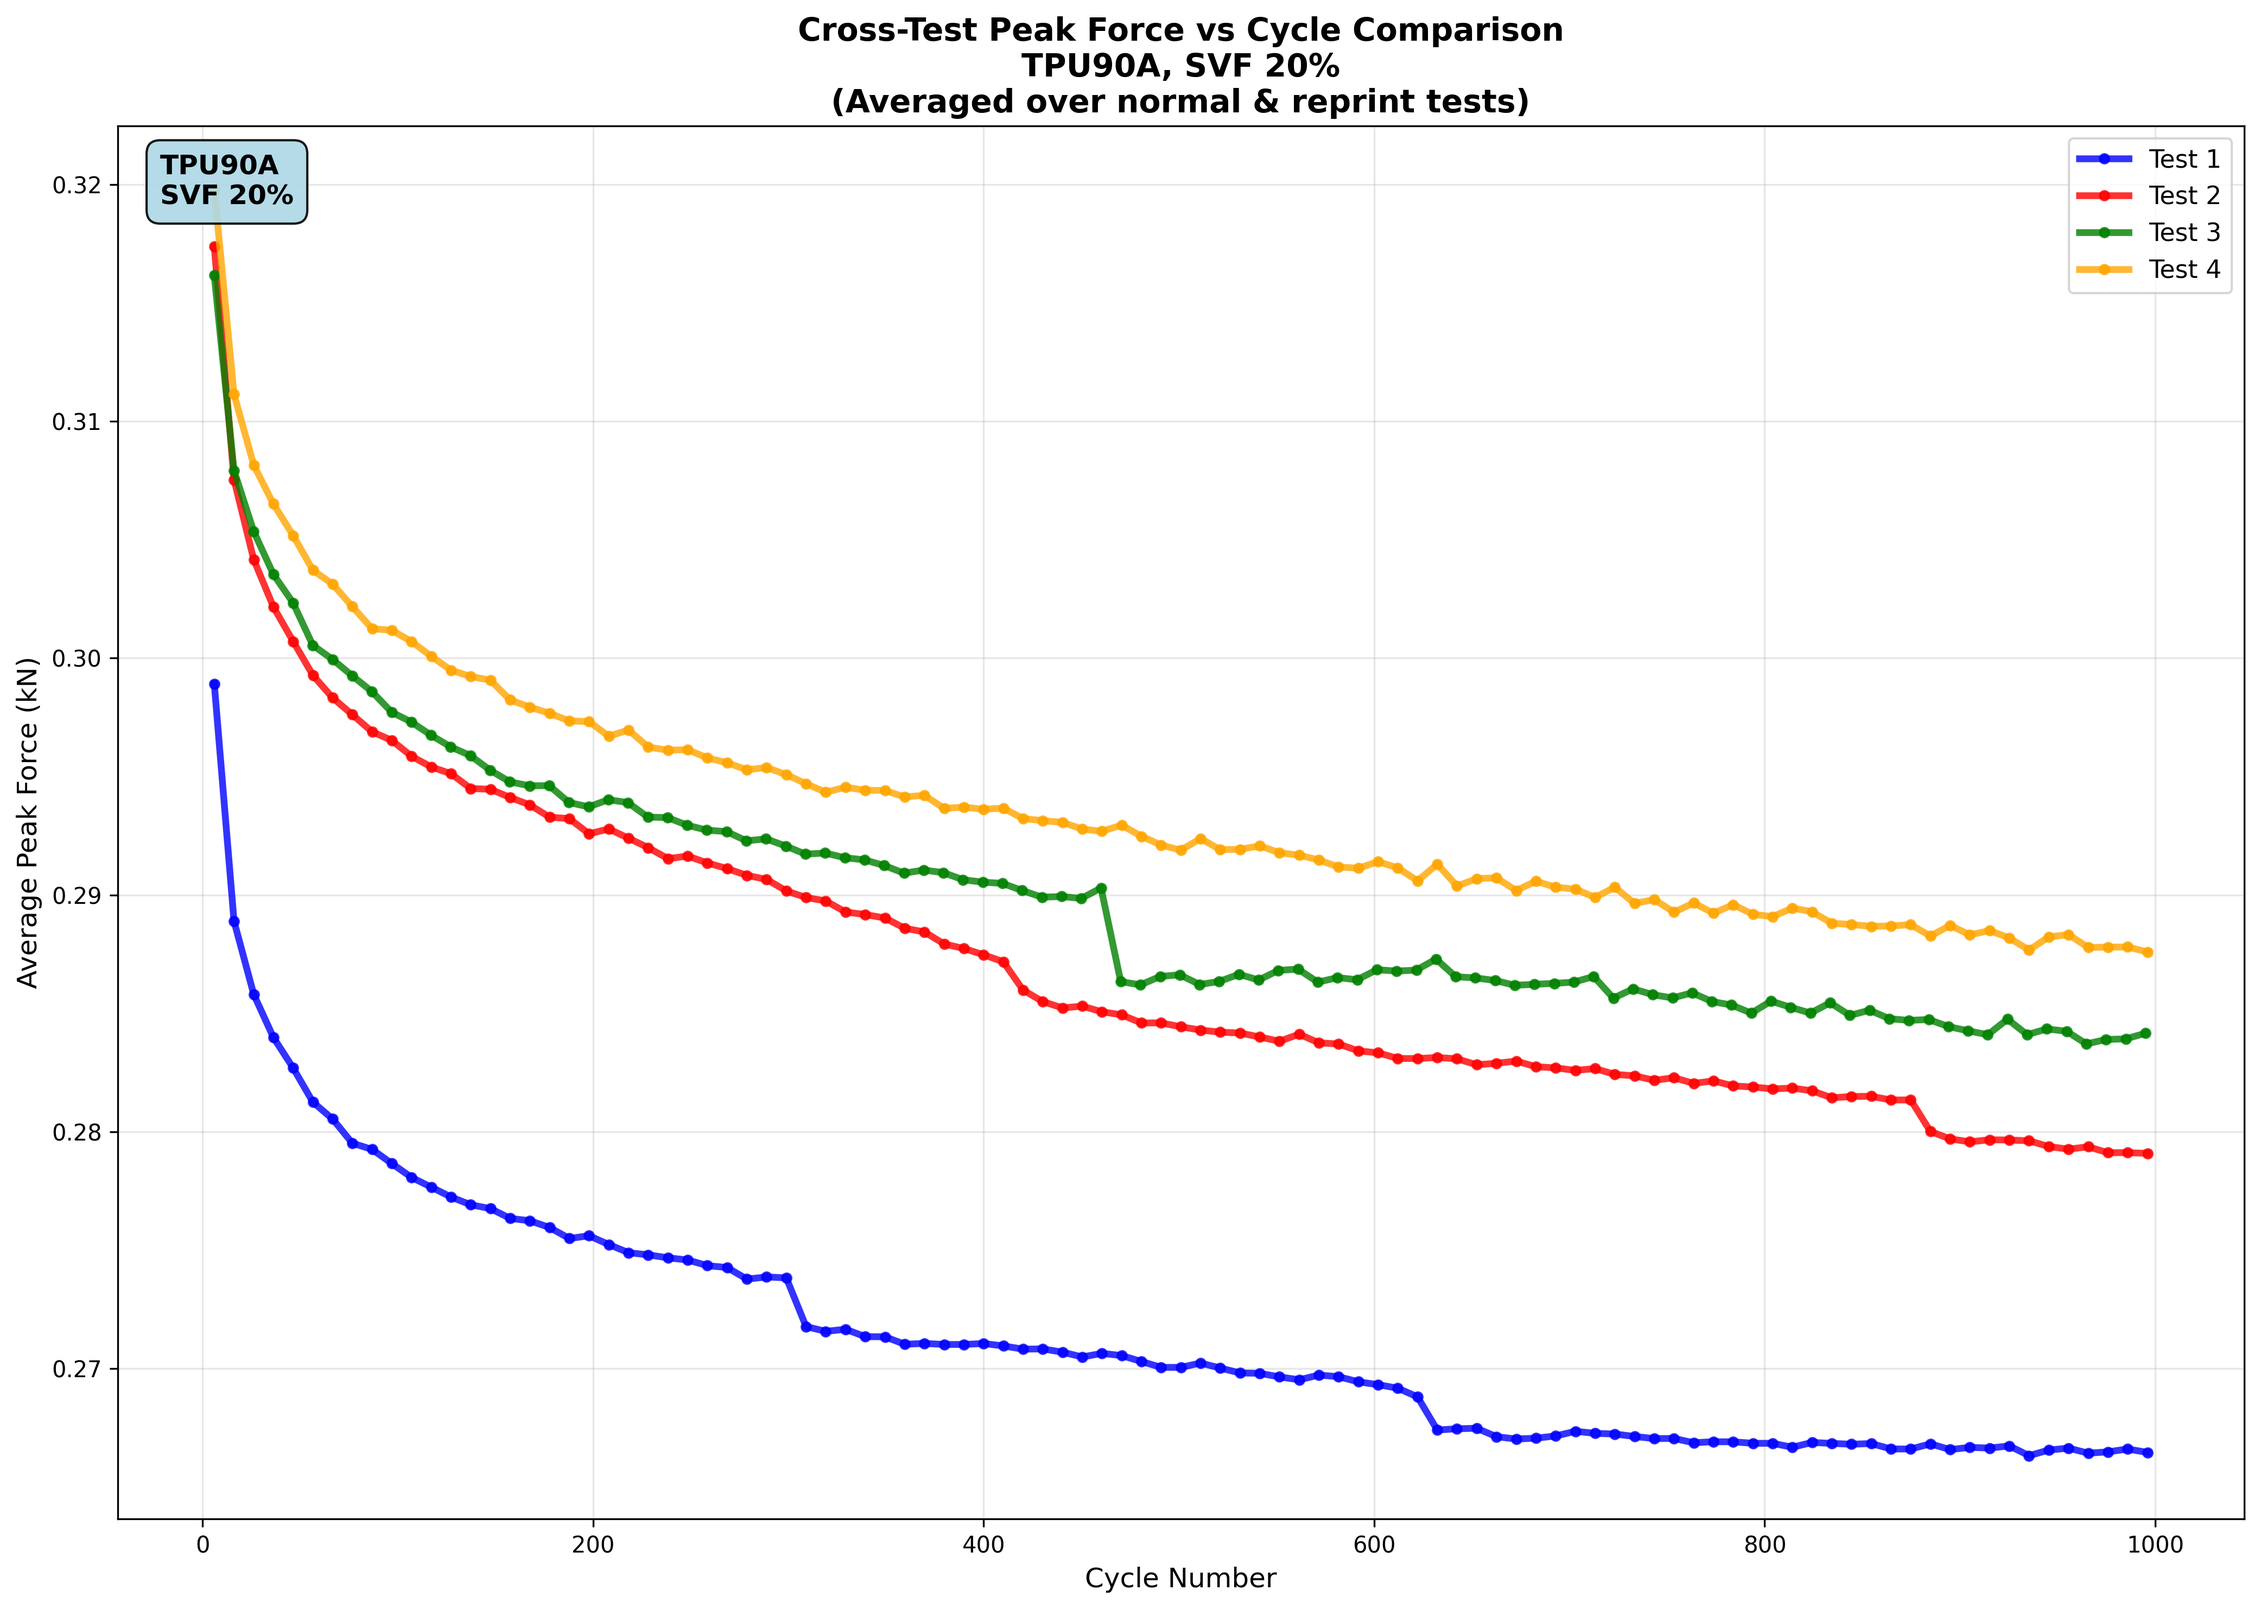
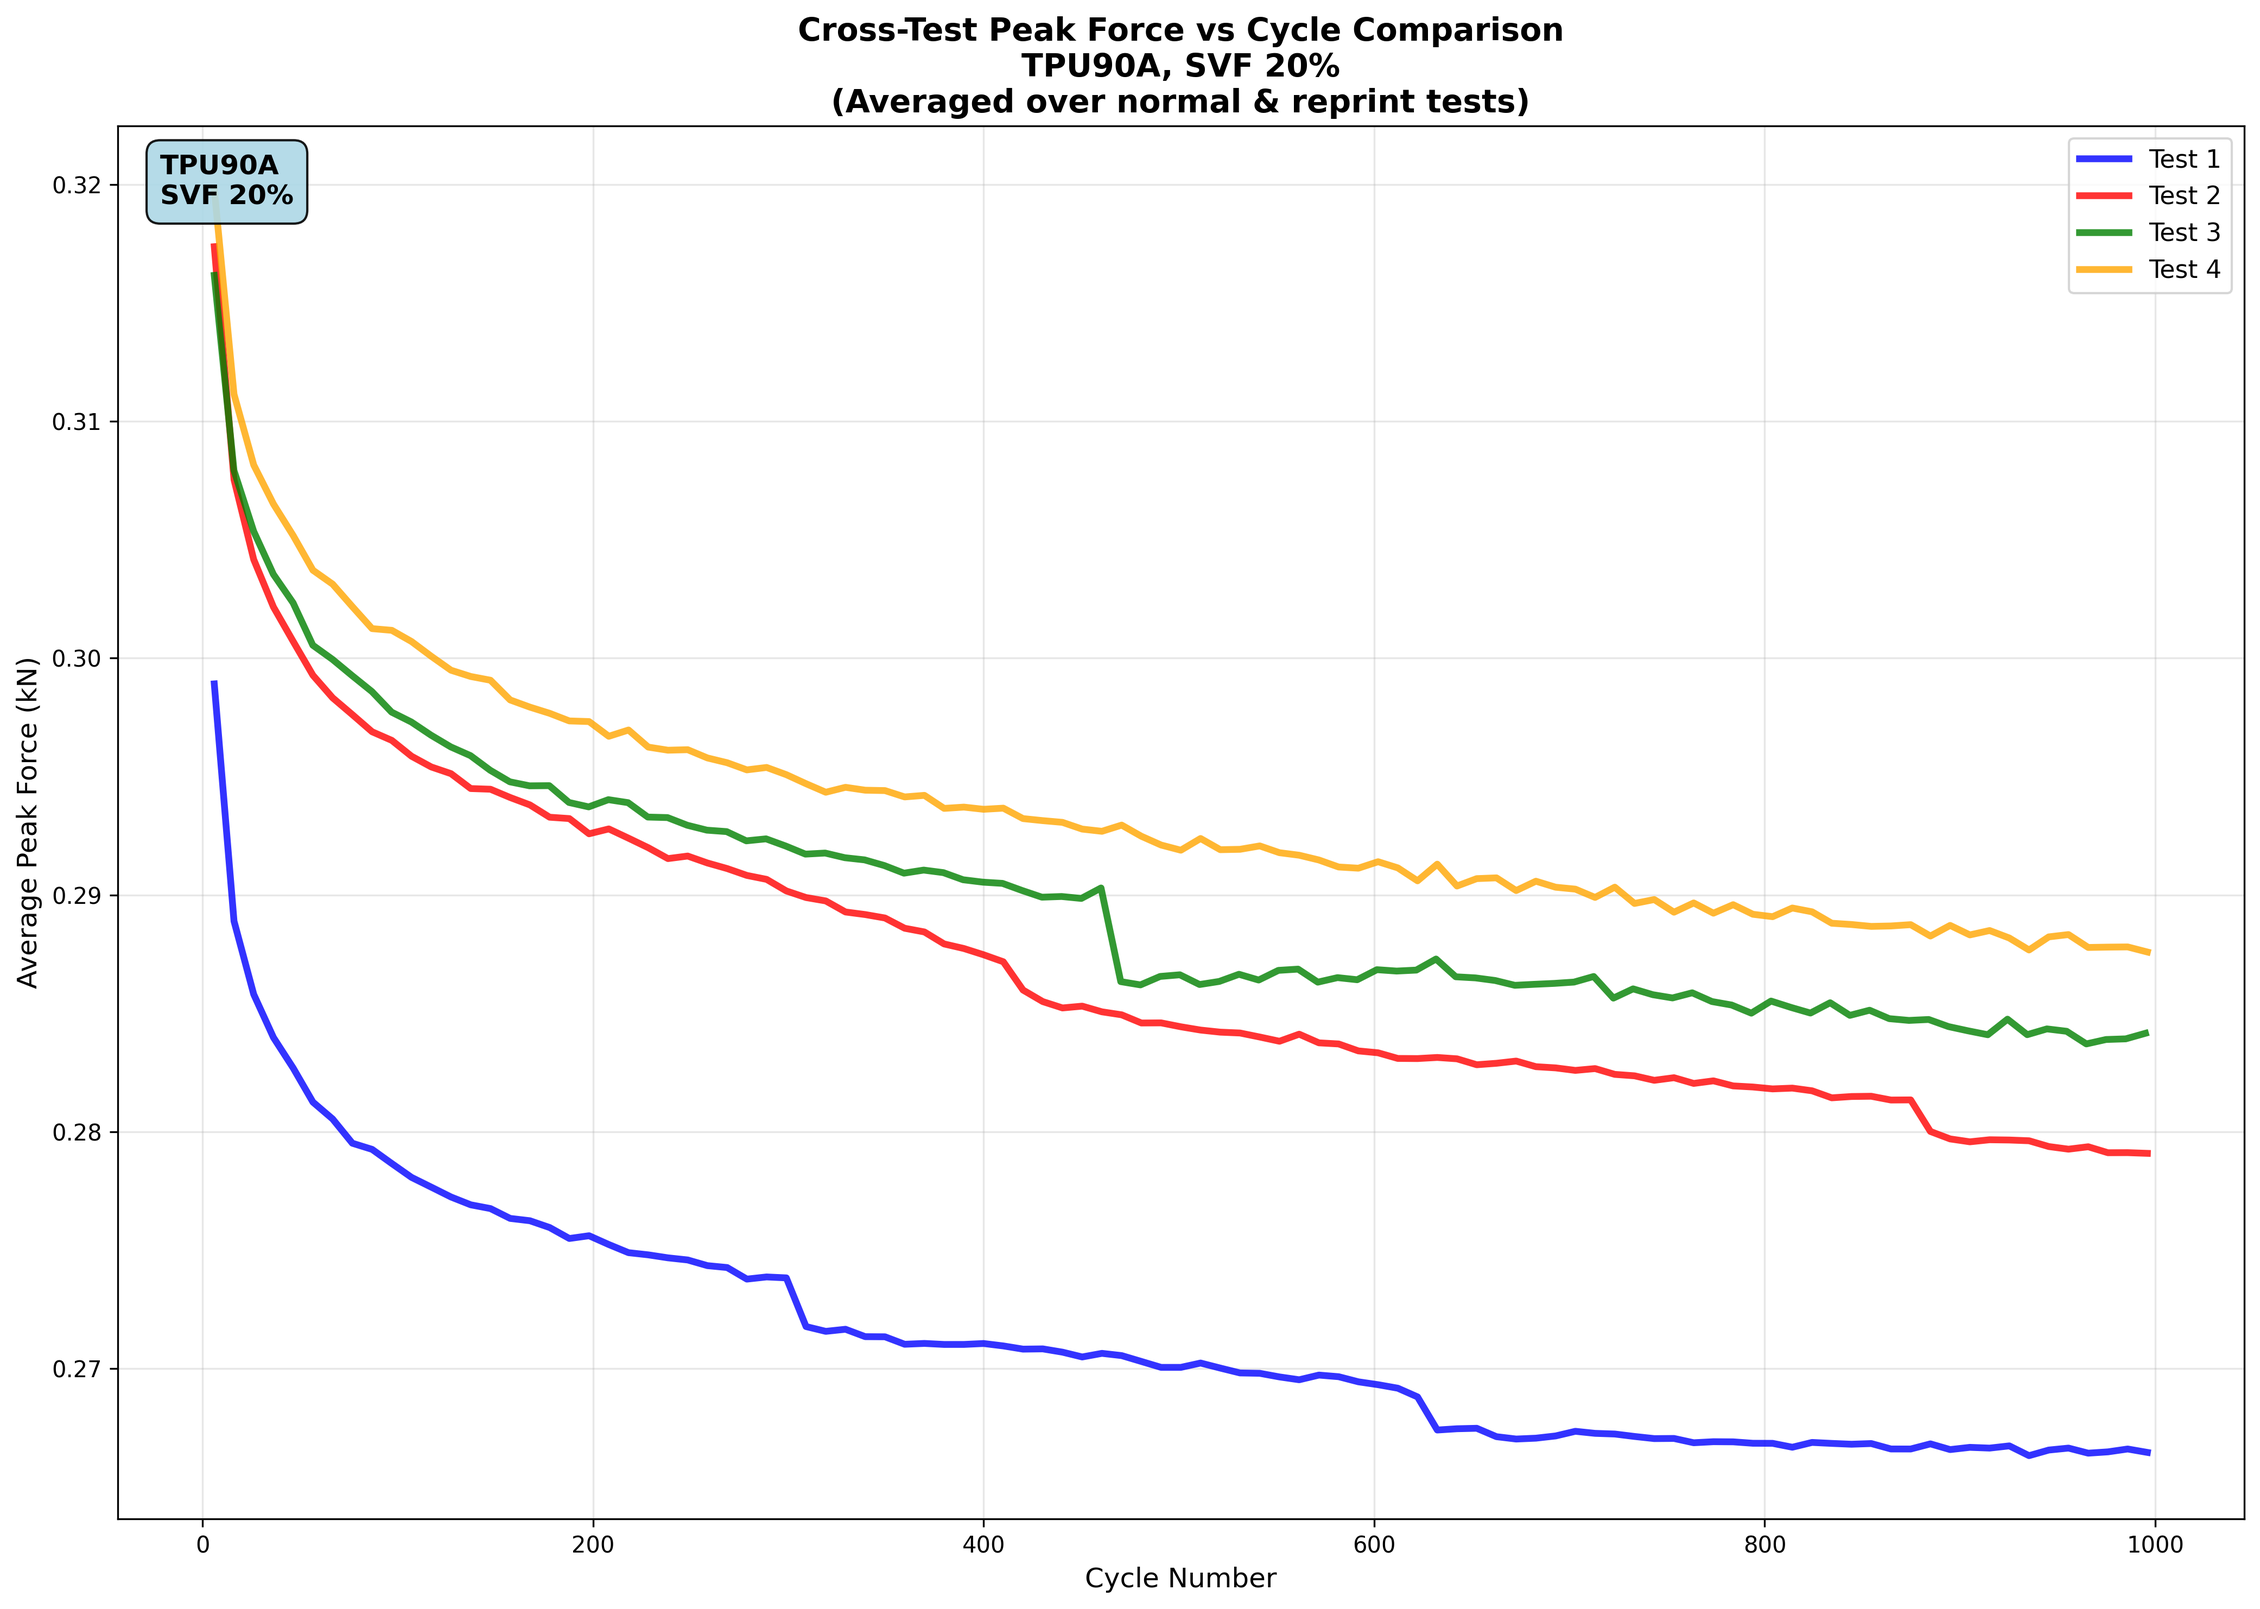
comparison continued

diff --git a/cyclic_compression_analysis.py b/cyclic_compression_analysis.py
@@ -974,7 +974,7 @@ def plot_cross_test_peak_force_comparison(base_path):
                     all_peak_forces.extend(peak_forces)
                 
                 if all_cycles:
-                    # Create bins for averaging (similar to existing approach)
+                    # Use exact same binning approach as individual test plots
                     max_cycle = max(all_cycles)
                     bin_edges = np.linspace(1, max_cycle, min(100, max_cycle))
                     bin_centers = (bin_edges[:-1] + bin_edges[1:]) / 2
@@ -992,7 +992,7 @@ def plot_cross_test_peak_force_comparison(base_path):
                     if np.any(valid_mask):
                         ax.plot(bin_centers[valid_mask], np.array(binned_forces)[valid_mask], 
                                '-', color=color, label=f'{test_name}', 
-                               linewidth=3, alpha=0.8, marker='o', markersize=4)
+                               linewidth=3, alpha=0.8)
                         plot_created = True
         
         if plot_created:
